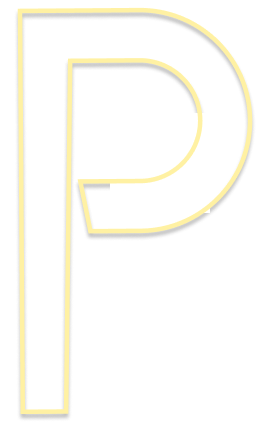
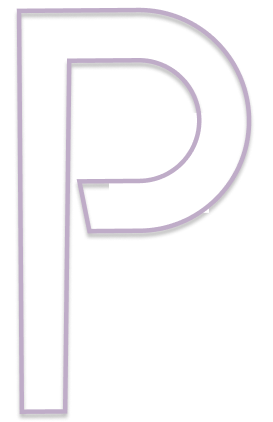
Minor Changes

Changed region(s): [[0.0586, 0.0, 0.9377, 0.9858], [0.6447, 0.2156, 0.7619, 0.4005]]

diff --git a/src/components/About/index.scss b/src/components/About/index.scss
@@ -1,23 +1,27 @@
 .about-text {
   margin-top: 6%;
   margin-left: 11%;
-  
+
+  .about-heading{
+    font-size: 54px;
+    font-family:Coolvetica;
+  }
   p {
     font-size: 20px;
-    font-family: "Helvetica Neue" ;
+    font-family: "Helvetica Neue";
   }
 
 }
 
 .flat-button {
-  color: #ffd700;
+  color: #BFACC8;
   font-size: 13px;
   font-weight: 400;
   letter-spacing: 4px;
   font-family: 'Elianto';
   text-decoration: none;
   padding: 10px 18px;
-  border: 1px solid #ffd700;
+  border: 1px solid #BFACC8;
   margin-top: 25px;
   margin-left: 15px;
 
@@ -26,8 +30,8 @@
   white-space: nowrap;
 
   &:hover {
-    background: #ffd900;
-    color: #333;
+    background: #BFACC8;
+    color: black;
   }
 }
 
@@ -44,18 +48,17 @@
   Button {
     width: 100%;
     height: 80%;
-    border: 1px solid #ffd900;
+    border: 1px solid #BFACC8;
     font-size: 54px;
-    color: #ffd900;
+    color: #BFACC8;
     border-radius: 20px;
     font-family: 'Elianto';
     animation: fadeInAnimation 1s 1.8s backwards;
     white-space: nowrap;
+
     &:hover {
-      background: #ffd900;
-      color: #333;
+      background: #BFACC8;
+      color: black;
     }
   }
 }
-
-

diff --git a/src/components/Home/index.scss b/src/components/Home/index.scss
@@ -1,3 +1,4 @@
+
 .home-page {
   width: 100%;
 
@@ -21,7 +22,7 @@
 
     &:before {
       font-family: 'La Belle Aurore', cursive;
-      color: #ffd700;
+      color: #783f8e;
       font-size: 18px;
       position: absolute;
       margin-top: -40px;
@@ -31,7 +32,7 @@
 
     &:after {
       font-family: 'La Belle Aurore', cursive;
-      color: #ffd700;
+      color: #783f8e;
       font-size: 18px;
       position: absolute;
       margin-top: 18px;
@@ -52,23 +53,27 @@
   }
 
   .flat-button {
-    color: #ffd700;
+    color: #bfacc8;
     font-size: 13px;
     font-weight: 400;
     letter-spacing: 4px;
     font-family: 'Elianto';
     text-decoration: none;
     padding: 10px 18px;
-    border: 1px solid #ffd700;
+    border: 1px solid #bfacc8;
     margin-top: 25px;
     float: left;
     animation: fadeInAnimation 1s 1.8s backwards;
     white-space: nowrap;
 
     &:hover {
-      background: #ffd700;
-      color: #333;
+      background: #bfacc8;
+      color: black;
     }
+  }
+
+  .loaders{
+    color: #bfacc8;
   }
 }
 

diff --git a/src/components/About/card/index.scss b/src/components/About/card/index.scss
@@ -5,7 +5,6 @@
 
     p {
         font-size: 54px;
-
         text-align: center;
         font-family: "Elianto";
 
@@ -14,13 +13,15 @@
         }
 
         .text-animate-hover {
-            color: #783f8e;
+            &:hover{
+                color:#783f8e;    
+            }
         }
     }
 
     .tech{
-        margin-top: 2%;
         margin-left: 4%;
+        margin-top: 2%;
         align-items: center;
     }
 
@@ -30,10 +31,12 @@
         align-items: center;
         .flat-button{
             margin-left:40%;
+            margin-top:-1px;
             width: auto;
-            height: 80%;
+            position: relative;
+            height: 50%;
             border: 1px solid #783f8e;
-            font-size: 54px;
+            font-size: 34px;
             color: #783f8e;
             border-radius: 20px;
             font-family: 'Elianto';

diff --git a/src/components/About/index.js b/src/components/About/index.js
@@ -42,11 +42,13 @@ const About = () => {
             <Card />
           </Backdrop>
         <div className="about-text">
-          <AnimatedLetters
-            letterClass={letterClass}
-            strArray={['A', 'b', 'o', 'u', 't', ' ', 'm', 'e']}
-            idx={15}
-          />
+          <p className="about-heading">
+            <AnimatedLetters
+              letterClass={letterClass}
+              strArray={['A', 'b', 'o', 'u', 't', ' ', 'm', 'e  ']}
+              idx={15}
+            />
+          </p>
           <p>
             I'm a Third Year student Computer Science student.<br />
             I'm very ambitious soon to be an Engineer specilized in Data Science<br />

diff --git a/src/components/sidebar/index.scss b/src/components/sidebar/index.scss
@@ -40,6 +40,7 @@
             font-size: 22px;
             font-family:Helvetica Neue;
             color: #4d4d4e;
+            font-weight: bold;
             display: block;
             line-height: 51px;
             height: 51px;
@@ -50,9 +51,8 @@
                 transition: all 0.3s ease-out;
             }
         }
-
         a.active {
-            color: #ffd700;
+            color: #bfacc8  ;
         }
     }
 
@@ -75,7 +75,7 @@
                 color: #4d4d4e;
 
                 &:hover {
-                    color: #ffd700;
+                    color: #bfacc8;
                 }
             
                 img{

diff --git a/src/components/Contact/index.js b/src/components/Contact/index.js
@@ -30,13 +30,13 @@ const Contact = () => {
     <>
       <div className="container contact-page">
         <div className="text-box">
-          
+          <h1>
             <AnimatedLetters
               letterClass={letterClass}
               strArray={['G', 'e', 't', '  ', 'i', 'n', '  ', 't', 'o', 'u', 'c', 'h']}
               idx={15}
             />
-          
+          </h1>          
         </div>
         <p>
           <br />Let's work on some exciting Machine Learning or <br />Artificial Intelligence Projects or something exciting

diff --git a/src/components/sidebar/index.js b/src/components/sidebar/index.js
@@ -21,7 +21,7 @@ const Sidebar = () => {
                 <NavLink activeclassname="active" className="about-link" to="/about">
                     About
                 </NavLink>
-                <NavLink activeclassname="active" className="resume-link" to="resume">
+                <NavLink activeclassname="active" className="resume-link" to="Resume.pdf">
                     Resume
                 </NavLink>
                 <NavLink activeclassname="active" className="contact-link" to="/contact">

diff --git a/src/components/AnimatedLetters/index.scss b/src/components/AnimatedLetters/index.scss
@@ -1,10 +1,5 @@
-span{
-  font-size: 55px;
-}
-
 .text-animate {
   display: inline-block;
-  font-family: 'Elianto';
   opacity: 0;
   animation: bounceIn;
   animation-duration: 1s;
@@ -20,7 +15,7 @@ span{
 
   &:hover {
     animation: rubberBand 1s;
-    
+    color: #bfacc8;
   }
 }
 
